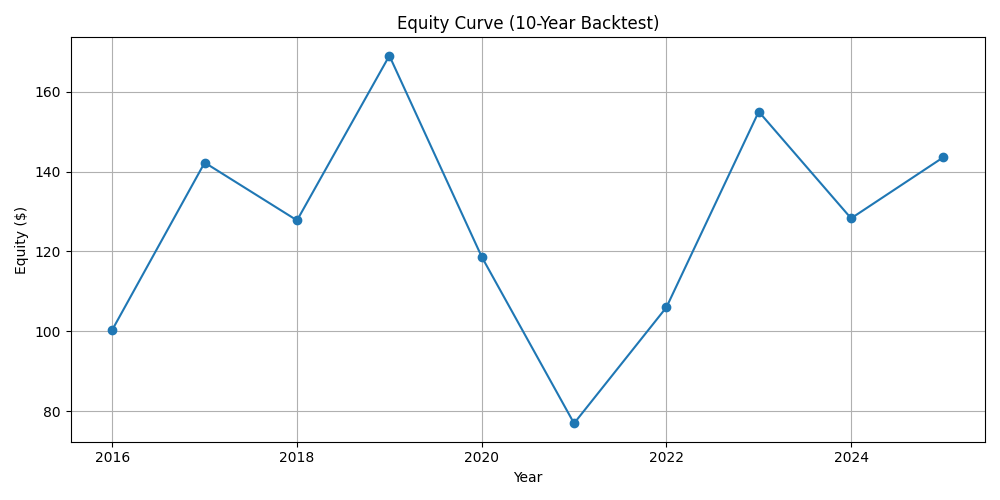
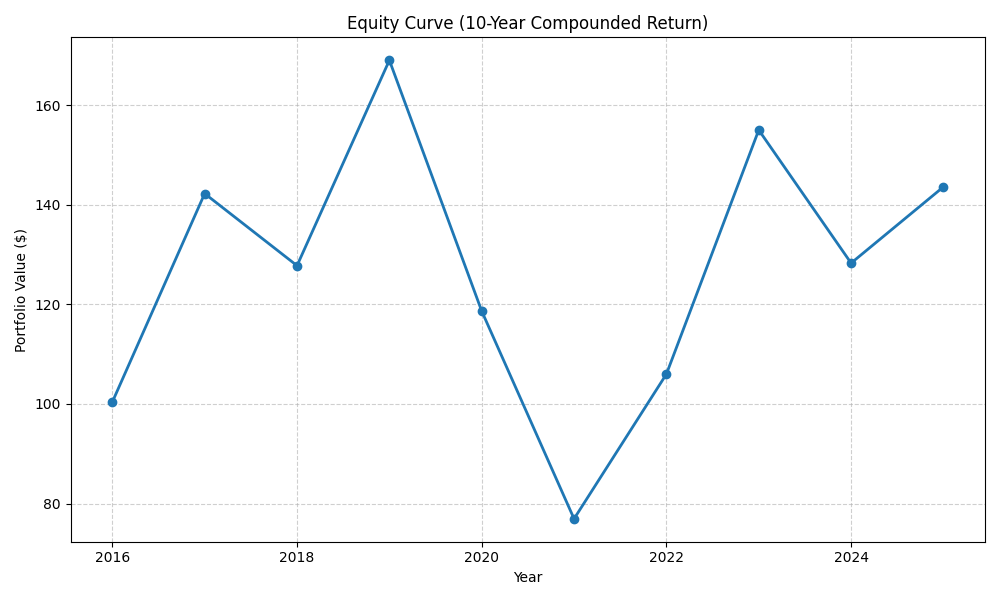
final changes

diff --git a/main.py b/main.py
@@ -5,7 +5,7 @@ import matplotlib.pyplot as plt
 import matplotlib.ticker as mtick
 
 def play():
-    print("Code generated and updated for single-position trading over 10 years with equity curve and average summary (GPT-5)")
+    print("Code generated for single-position trading over 10 years(GPT-5)")
 
     data_dir = "sp500_stock_data"
     results_dir = "results"
@@ -106,6 +106,7 @@ def play():
         all_trades = []
 
         for current_date in all_dates_y:
+            # SELL LOGIC
             if global_position is not None:
                 ticker = global_position['Ticker']
                 df = yearly_data.get(ticker)
@@ -146,6 +147,7 @@ def play():
                     })
                     global_position = None
 
+            # BUY LOGIC
             elif global_position is None:
                 for ticker, df in yearly_data.items():
                     row = df[df['Date'] == current_date]
@@ -182,6 +184,41 @@ def play():
         if all_trades:
             all_trades_all_years.append(pd.DataFrame(all_trades))
             print(f"Executed {len(all_trades)} trades for {theYear}")
+
+                # === PLOT EACH TRADE ===
+            trade_plot_dir = os.path.join("plots", f"trade_plots_{theYear}")
+            os.makedirs(trade_plot_dir, exist_ok=True)
+
+            for trade in all_trades:
+                ticker = trade['Ticker']
+                df = yearly_data[ticker]
+                start_date = trade['Buy Date'] - pd.Timedelta(days=15)
+                end_date = trade['Sell Date'] + pd.Timedelta(days=15)
+                sub_df = df[(df['Date'] >= start_date) & (df['Date'] <= end_date)]
+
+                plt.figure(figsize=(10, 6))
+                plt.plot(sub_df['Date'], sub_df['Adj Close'], label='Adj Close', color='blue', linewidth=1.8)
+                plt.plot(sub_df['Date'], sub_df['EMA_100'], label='EMA(100)', color='orange', linestyle='--', alpha=0.7)
+                plt.plot(sub_df['Date'], sub_df['HMA_100'], label='HMA(100)', color='green', linestyle='--', alpha=0.7)
+
+                # Markers
+                plt.scatter(trade['Buy Date'], trade['Buy Price'], color='lime', s=100, marker='^', label='Buy', edgecolor='black')
+                plt.scatter(trade['Sell Date'], trade['Sell Price'], color='red', s=100, marker='v', label='Sell', edgecolor='black')
+
+                # Title & Labels
+                plt.title(f"{ticker} | {theYear}\nBuy: {trade['Buy Date'].date()}  →  Sell: {trade['Sell Date'].date()}  |  Gain: {trade['Pct Gain (%)']:.2f}%")
+                plt.xlabel("Date")
+                plt.ylabel("Adjusted Close ($)")
+                plt.legend()
+                plt.grid(True, linestyle='--', alpha=0.6)
+                plt.tight_layout()
+
+                filename = f"{ticker}_{trade['Buy Date'].date()}_{trade['Sell Date'].date()}.png".replace(":", "-")
+                plt.savefig(os.path.join(trade_plot_dir, filename))
+                plt.close()
+
+            print(f"Saved {len(all_trades)} trade charts to {trade_plot_dir}")
+
         else:
             print(f"No trades for {theYear}")
 
@@ -211,11 +248,11 @@ def play():
         })
         summary_all = pd.concat([yearly, summary_row], ignore_index=True)
 
-        # Save full summary
+        # Save CSV
         summary_path = os.path.join(results_dir, "summary_all_years.csv")
         summary_all.to_csv(summary_path, index=False)
 
-        # Plot equity curve
+        # Save equity curve
         plt.figure(figsize=(10, 6))
         plt.plot(yearly['Year'], yearly['Equity ($)'], marker='o', linewidth=2)
         plt.title("Equity Curve (10-Year Compounded Return)")
@@ -226,9 +263,39 @@ def play():
         plt.savefig(os.path.join(results_dir, "equity_curve_10yr.png"))
         plt.close()
 
+        # === SAVE RESULTS.TXT ===
+        txt_path = os.path.join(results_dir, "results.txt")
+        with open(txt_path, "w") as f:
+            f.write("=============================================\n")
+            f.write("📈 SINGLE-POSITION STRATEGY RESULTS SUMMARY\n")
+            f.write("=============================================\n\n")
+            f.write(">> STRATEGY OVERVIEW <<\n")
+            f.write("Buys deeply oversold S&P 500 stocks when:\n")
+            f.write("- Price < 88% of HMA(100)\n")
+            f.write("- RSI(14) < 30\n")
+            f.write("- Stochastic bullish crossover (%K crosses above %D)\n")
+            f.write("- Volume > 1.1 × 20-day avg\n")
+            f.write("- ATR < 20% of price and within Bollinger Bands\n\n")
+            f.write("Sells when:\n")
+            f.write("- Price crosses above EMA(100), RSI > 65, or MACD flips negative\n")
+            f.write("- Price drops 3% from max or below 2×ATR stop loss\n")
+            f.write("- Held > 60 days or at year-end\n\n")
+            f.write("---------------------------------------------\n")
+            f.write(">> YEARLY PERFORMANCE <<\n\n")
+            for _, row in yearly.iterrows():
+                f.write(f"{int(row['Year']) if isinstance(row['Year'], (int, np.integer)) else row['Year']}: "
+                        f"Return = {row['Pct Gain (%)']:.2f}%, "
+                        f"Cumulative = {row['Cumulative Return (%)']:.2f}%, "
+                        f"Equity = ${row['Equity ($)']:.2f}\n")
+            f.write("\n---------------------------------------------\n")
+            f.write(f"Average Annual Gain: {avg_annual_gain:.2f}%\n")
+            f.write(f"Total Compounded Gain: {total_gain:.2f}% over 10 years\n")
+            f.write(f"Final Equity: ${yearly['Equity ($)'].iloc[-1]:.2f}\n")
+
         print("\n✅ Saved:")
         print(f"  • {summary_path}")
         print(f"  • results/equity_curve_10yr.png")
+        print(f"  • results/results.txt")
         print(f"\n📊 Average Annual Gain: {avg_annual_gain:.2f}%")
         print(f"📈 Total Compounded Gain: {total_gain:.2f}% over 10 years")
     else:
